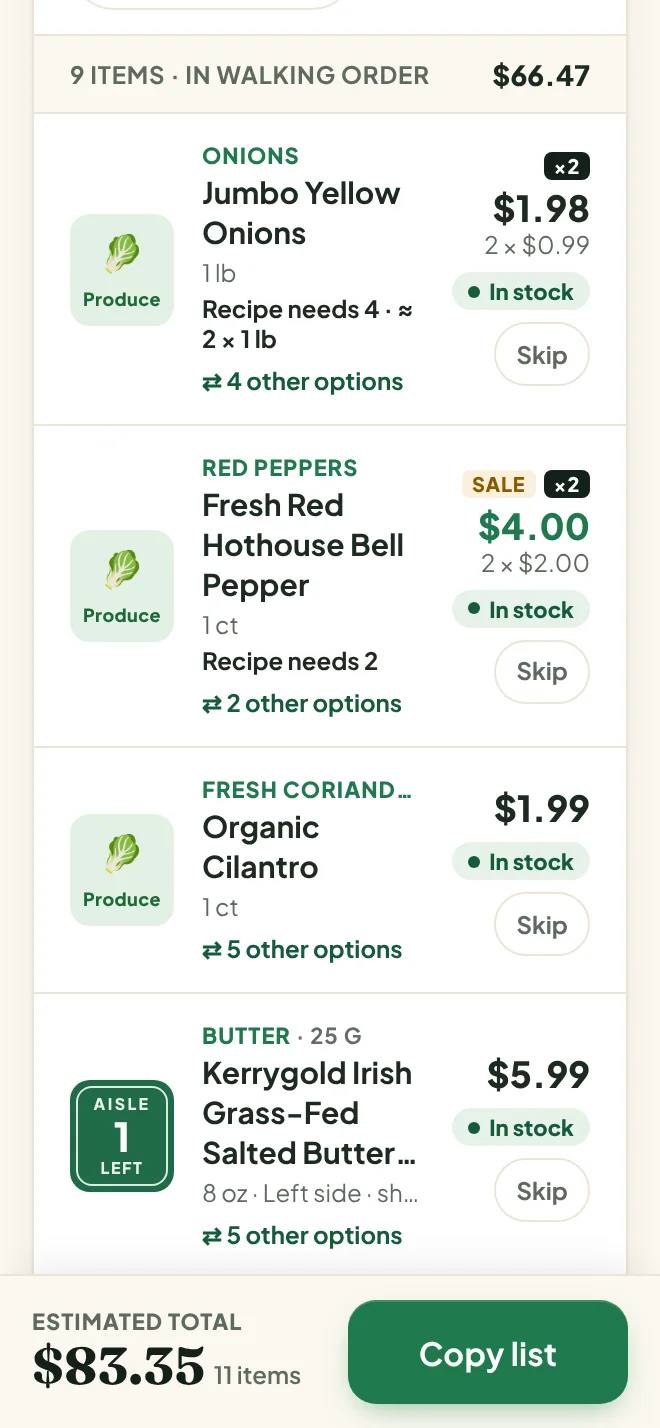
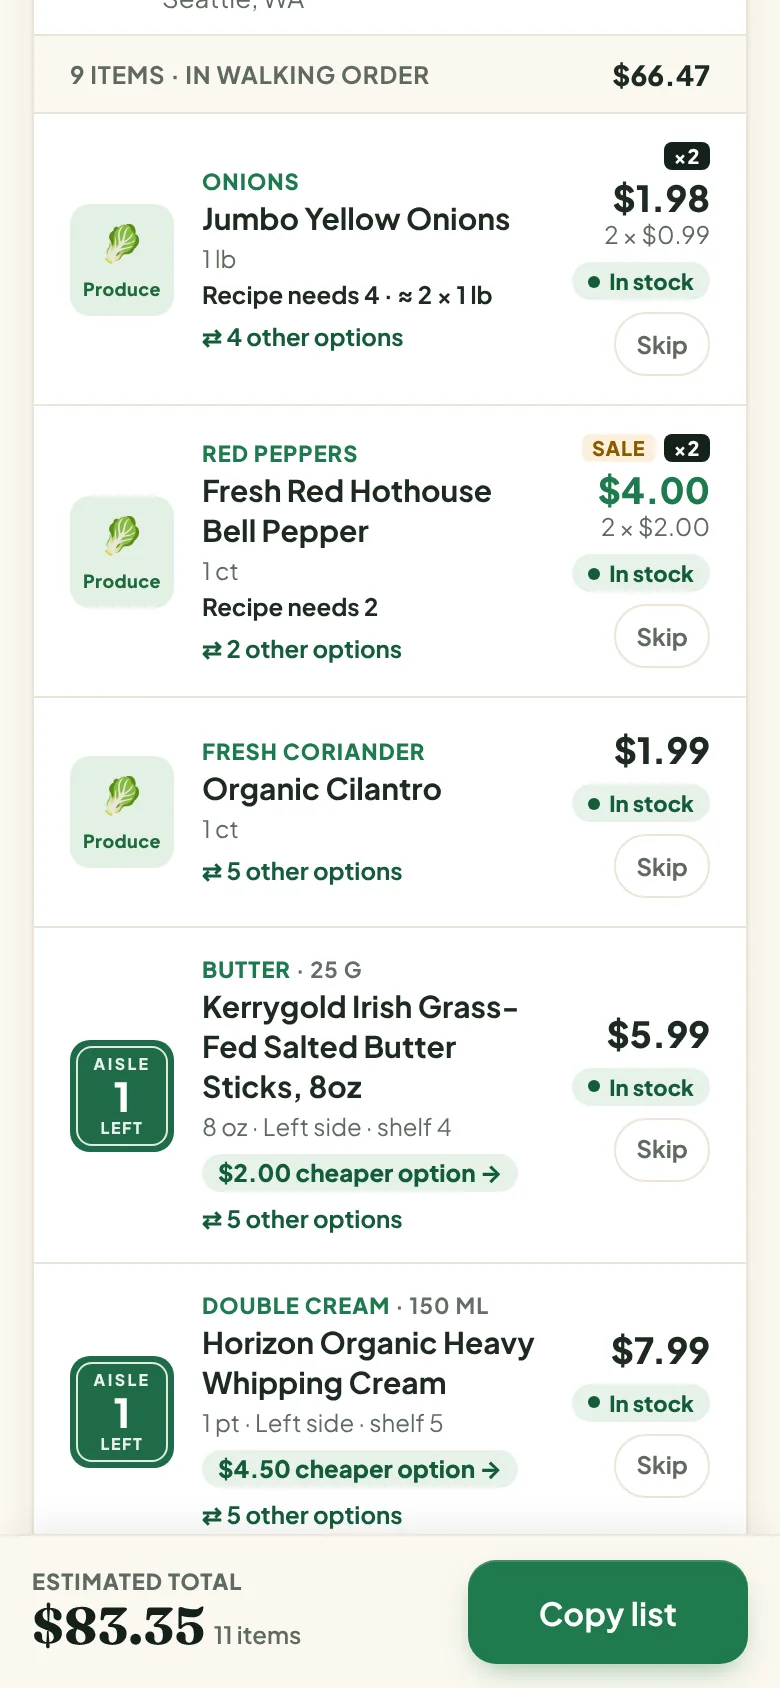
Deck: final sync with one-stop offer and store-to-store distance
Claude-Session: https://claude.ai/code/session_01AJf85JmqzvYmp3L4rD7mge

diff --git a/public/pitch/index.html b/public/pitch/index.html
@@ -299,6 +299,10 @@ h2 em,h1 em{font-weight:700;color:var(--green)}
 .row .it span{display:block;font:500 20px/1.25 var(--sans);color:var(--muted);white-space:nowrap;overflow:hidden;text-overflow:ellipsis}
 .row .pr{font:800 24px/1 var(--sans);color:var(--ink);font-variant-numeric:tabular-nums}
 .total{display:flex;align-items:center;justify-content:space-between;gap:20px;padding:14px 26px 18px}
+.onestop{display:flex;align-items:center;flex-wrap:wrap;gap:8px 12px;padding:10px 26px 14px;border-top:1px dashed var(--line);font:600 20px/1.2 var(--sans);color:var(--muted)}
+.onestop b{color:var(--ink);font-weight:800}
+.onestop span{background:var(--cream);border:1px solid var(--line);border-radius:999px;padding:6px 12px;white-space:nowrap}
+.onestop span em{font-style:normal;font-weight:800;color:var(--green-dk);margin-left:6px}
 .total>div:first-child{flex:none}
 .total small{display:block;white-space:nowrap;font:800 19px/1 var(--sans);letter-spacing:.12em;color:var(--muted)}
 .total .big{font:800 60px/1 var(--serif);color:var(--ink);margin-top:6px;font-variant-numeric:tabular-nums}
@@ -612,6 +616,7 @@ body.notes-open #notes{transform:none}
       <div class="total"><div><small>ESTIMATED TOTAL</small><div class="big" id="total" data-count="83.35" data-prefix="$" data-dec="2">$83.35</div></div>
         <div class="cartnext" aria-label="Coming next, not built yet: send the list to your QFC cart"><span class="nexttag">Next build · not live yet</span><div class="cartbtn"><svg viewBox="0 0 24 24" fill="none" stroke="currentColor" stroke-width="2.2" stroke-linecap="round" stroke-linejoin="round"><path d="M3 4h2l2.4 11.2a1.5 1.5 0 0 0 1.5 1.2h8.6a1.5 1.5 0 0 0 1.5-1.1L21 8H6.2"/><circle cx="9.5" cy="20" r="1.3"/><circle cx="17.5" cy="20" r="1.3"/></svg>Send to pickup cart</div><small>Fills your QFC cart · checkout in Kroger's app</small></div>
       </div>
+      <div class="onestop" id="onestop"><!-- filled from RUN.oneStop --></div>
     </div>
   </div>
 </section>
@@ -798,10 +803,11 @@ const RUN = {               // source: lib/client/demo-run.json + live /?demo=1&
   items: 11,                // items shopped after pantry staples are unchecked (vegetable oil)
   total: 83.35,             // estimated total, whole packs ($66.47 Uptown + $16.88 Broadway Market)
   coverage: { store: 0, products: 55, withAisle: 53, withShelf: 46 }, // slide 7: distinct best+candidate products at stores[store] in demo-run.json
+  oneStop: [{ store: 1, total: 81.23 }, { store: 2, total: 74.33 }], // site's "Or get all 11 in one stop" offer
   missReason: 'sold in-store', // why stores[0] missed items, as the site words it: "Not sold in-store at QFC Uptown" (inStore:false)
   stores: [                 // nearest first; found = items bought at that store
     { name: 'QFC Uptown',          logo: 'QFC', dist: '0.5 mi', addr: '500 Mercer St, Seattle', found: 9 },
-    { name: 'QFC Broadway Market', logo: 'QFC', dist: '0.7 mi', found: 2 },
+    { name: 'QFC Broadway Market', logo: 'QFC', dist: '0.7 mi', found: 2, hop: '1.2 mi' }, // hop = distance from stores[0], as the site shows it
     { name: 'QFC Harvard Market',  logo: 'QFC', dist: '1.1 mi', found: 0 },
   ],
 };
@@ -834,8 +840,9 @@ const NOTES = [
   "So: <b>paste a recipe, walk the store once.</b> \"150 ml double cream\": the AI makes it heavy cream, never whipped topping or creamer. Then the real product at your store: aisle 1, left side, shelf 5, $7.99, in stock.",
   "Four steps. We read the recipe. <b>One</b> Claude Haiku call turns each line into a search term. Kroger's API searches the nearest store. Plain math rounds up to whole packs, we sort by aisle, and misses fall through to the next store.",
   `A <b>real recorded run</b>: ` + (fellThrough.length
-    ? `one loop for ${S0.found} items at ${S0.name}. ${foundAll - S0.found} aren't ${RUN.missReason} there, so we found them at the next ${fellThrough[0].logo}; you can skip them. One is a flagged "closest match". ${money(RUN.total)} in whole packs.`
-    : `all ${foundAll} items at ${S0.name}, one clean loop, about ${money(RUN.total)}.`),
+    ? `one loop for ${S0.found} items at ${S0.name}. ${foundAll - S0.found} aren't ${RUN.missReason} there, so they come from ${fellThrough[0].name.replace(/^QFC /, '')}${fellThrough[0].hop ? `, ${fellThrough[0].hop.replace('mi', 'miles')} on` : ''}. You choose: skip them, or shop all ${RUN.items} in one stop. ${money(RUN.total)} in whole packs.`
+    : `all ${foundAll} items at ${S0.name}, one clean loop, about ${money(RUN.total)}.`) +
+    (RUN.oneStop ? `<span class="qa">If asked "why not the cheapest store?": we start from the nearest store and fill gaps nearby; the list then offers every one-stop option with its price (${RUN.oneStop.map(x => `${RUN.stores[x.store].name} ${money(x.total)}`).join(', ')}), and the shopper picks.</span>` : ''),
   `<span class="cue">[Click the laptop or press D to open the <a href="${DEMO_URL}" target="_blank" rel="noopener">demo replay</a>. Backup: press V for the <a href="/demo" target="_blank" rel="noopener">/demo video</a>. About 30 s.]</span> ` +
     "<b>The app is live:</b> scan and try any recipe. On stage I'm using a recorded real run, so wifi can't bite. Start a list… staples start unchecked… find in stores… the list, by aisle, with price and stock.",
   `<b>One AI call per recipe, about a tenth of a cent.</b> Blocked sites fall through to an archive, then paste.` +
@@ -869,14 +876,21 @@ document.getElementById('found').querySelector('span').innerHTML = fellThrough.l
   const sec = document.getElementById('why').closest('section'), h = sec.querySelector('h2'), w = document.getElementById('why');
   if (fellThrough.length) {
     const n = foundAll - S0.found;
+    const f = fellThrough[0];
     w.innerHTML = `${n} item${n > 1 ? 's' : ''} ${n > 1 ? "aren't" : "isn't"} ${RUN.missReason} at <b>${S0.name}</b>, so ${n > 1 ? 'they come' : 'it comes'} from ` +
-      `<b>${fellThrough.map(st => st.name).join('</b> and <b>')}</b>. Every row has a Skip.`;
+      `<b>${f.name}</b>${f.hop ? ` (${f.hop} on)` : ''}. Or skip ${n > 1 ? 'them' : 'it'}, or shop one store.`;
   } else {
     h.innerHTML = 'Same trip, <em>one clean loop.</em>'; sec.dataset.title = 'Same trip, one clean loop';
     w.innerHTML = `Every item at <b>${S0.name}</b>.`;
   }
 }
 { const t = document.getElementById('total'); t.dataset.count = RUN.total; t.textContent = money(RUN.total); }
+{ // slide 5: the site's one-stop offer
+  const o = document.getElementById('onestop');
+  if (RUN.oneStop && RUN.oneStop.length && fellThrough.length)
+    o.innerHTML = `<b>All ${RUN.items}, one stop:</b>` + RUN.oneStop.map(x => `<span>${RUN.stores[x.store].name.replace(/^QFC /, '')}<em>${money(x.total)}</em></span>`).join('');
+  else o.remove();
+}
 { // slide 7 coverage stat
   const c = RUN.coverage, pct = n => Math.round(100 * n / c.products), e = document.getElementById('cov-pct');
   e.dataset.count = pct(c.withAisle); e.textContent = pct(c.withAisle) + '%';
